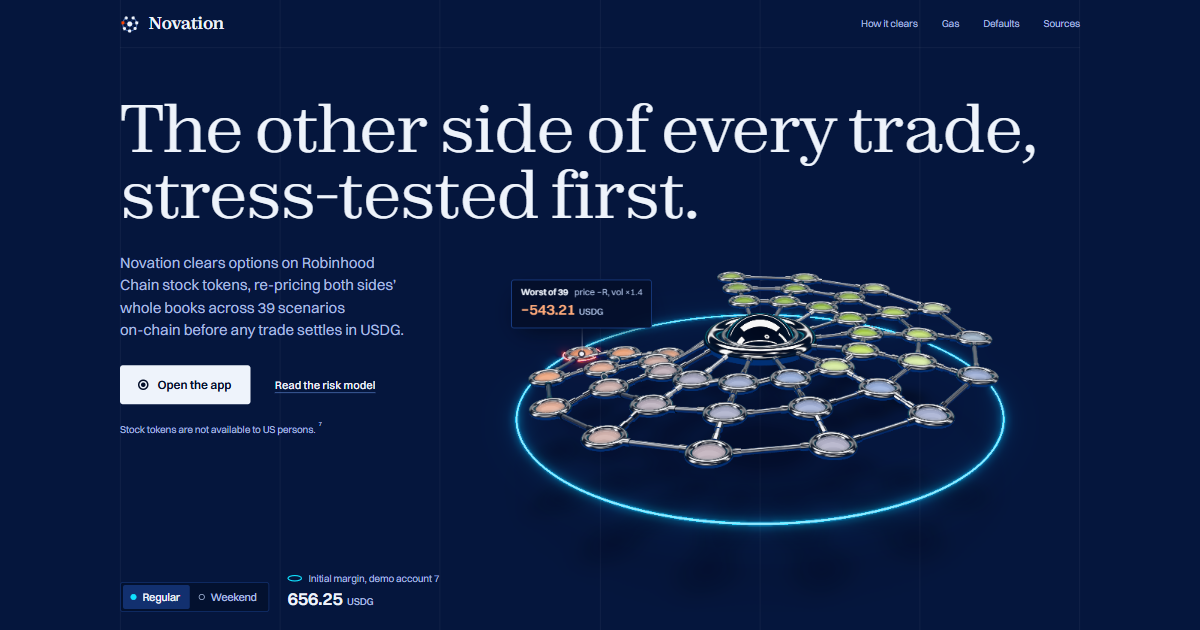
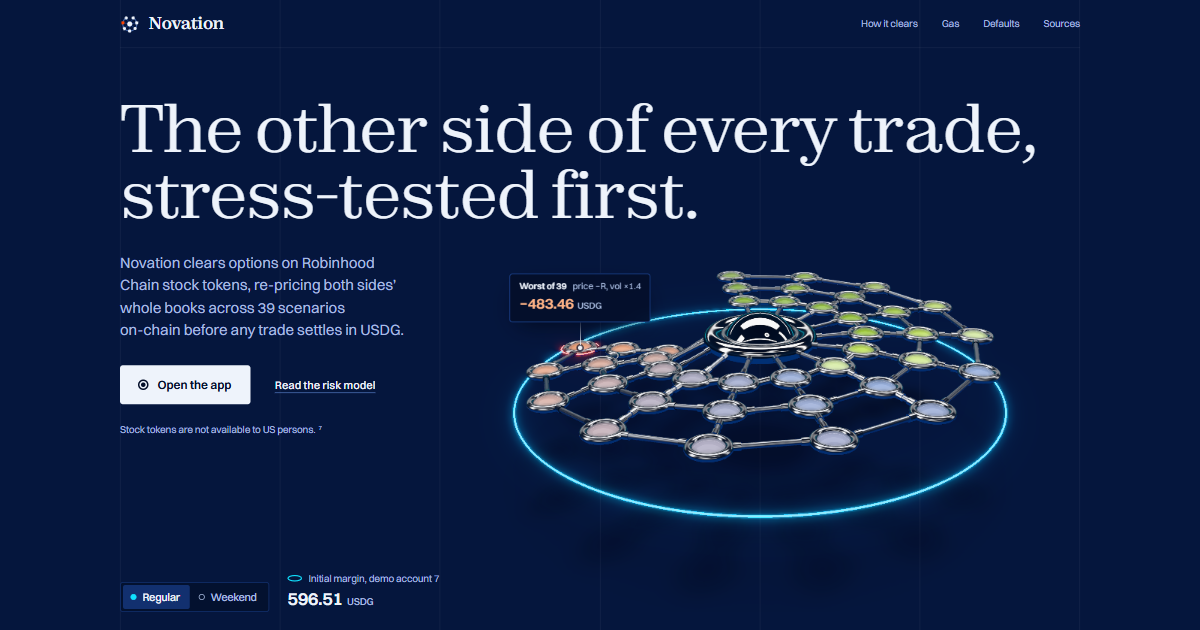
Align landing figures with demo fixtures

Changed region(s): [[0.4008, 0.4222, 0.8633, 0.8444], [0.8017, 0.6937, 0.8325, 0.754], [0.2467, 0.9349, 0.3083, 0.9651]]

diff --git a/app/src/components/landing/data.ts b/app/src/components/landing/data.ts
@@ -1,4 +1,3 @@
-import account7 from '@/fixtures/account7.json';
 import chains from '@/fixtures/chains.json';
 import { MockClient } from '@/lib/client/mock';
 import type { GasRow, NovationClient, ProtocolStats, ScenarioGrid } from '@/lib/client/types';
@@ -21,6 +20,19 @@ export interface DiagramTrade {
   seller: DiagramSide;
 }
 
+/**
+ * The demo agent and its refused ticket, read the way /app/agents and /app/risk read them: the grant's
+ * budget and current use, and the refusal's worst case after the trade (the account's lossIM).
+ */
+export interface LandingAgent {
+  label: string;
+  budget: number;
+  imNow: number;
+  worstAfter: number;
+  /** What the agent tried, in words: "sell 60 NVDA 200 calls". */
+  ticket: string;
+}
+
 export interface LandingData {
   asOf: number;
   demo: boolean;
@@ -29,6 +41,7 @@ export interface LandingData {
   gas: GasRow[];
   protocol: ProtocolStats;
   trade: DiagramTrade;
+  agent: LandingAgent;
 }
 
 const BUYER = 7;
@@ -50,7 +63,7 @@ export async function landingData(): Promise<LandingData> {
   if (!series) throw new Error(`series ${SERIES_ID} missing from fixtures`);
   const premium = series.ask * QTY;
 
-  const [asOf, regular, weekend, gas, protocol, buyer, seller, buyerGrid, sellerGrid, buyQuote, sellQuote] = await Promise.all([
+  const [asOf, regular, weekend, gas, protocol, buyer, seller, buyerGrid, sellerGrid, buyQuote, sellQuote, grants, feed] = await Promise.all([
     c.asOf(),
     c.scenarioGrid(BUYER, 'REGULAR'),
     c.scenarioGrid(BUYER, 'WEEKEND'),
@@ -62,13 +75,21 @@ export async function landingData(): Promise<LandingData> {
     c.scenarioGrid(SELLER),
     c.whatIf(BUYER, SERIES_ID, QTY, premium),
     c.whatIf(SELLER, SERIES_ID, -QTY, premium),
+    c.agents(BUYER),
+    c.refusalsFeed(),
   ]);
+
+  const grant = grants.find((g) => g.lastRefusal?.code === 'AgentRiskBudgetExceeded');
+  const refused = feed.find((r) => r.code === 'AgentRiskBudgetExceeded' && r.account === BUYER && r.agent === grant?.agent);
+  const worstAfter = refused?.numbers?.worstLoss;
+  if (!grant || !refused?.detail || worstAfter === undefined) throw new Error('the over-budget agent refusal is missing from the demo data');
+  const action = refused.detail.split(' through ')[0]!;
 
   return {
     asOf,
     demo: c instanceof MockClient,
     grids: { REGULAR: regular, WEEKEND: weekend },
-    ims: { REGULAR: account7.summary.im_regular, WEEKEND: account7.summary.im_weekend },
+    ims: { REGULAR: regular.im, WEEKEND: weekend.im },
     gas,
     protocol,
     trade: {
@@ -91,6 +112,13 @@ export async function landingData(): Promise<LandingData> {
         imAfter: sellQuote.after.im,
         equity: sellQuote.after.equity,
       },
+    },
+    agent: {
+      label: grant.label,
+      budget: grant.maxWorstLoss,
+      imNow: grant.used,
+      worstAfter,
+      ticket: action.charAt(0).toLowerCase() + action.slice(1),
     },
   };
 }

diff --git a/app/tests/unit/landing-data.test.ts b/app/tests/unit/landing-data.test.ts
@@ -1,5 +1,6 @@
 import { describe, expect, it } from 'vitest';
 import { landingData } from '@/components/landing/data';
+import { MockClient } from '@/lib/client/mock';
 import { SOURCES, sourceNumber } from '@/components/landing/sources';
 
 describe('landing data', () => {
@@ -8,22 +9,48 @@ describe('landing data', () => {
     const { buyer, seller, series, qty, premium } = d.trade;
     expect(series).toBe('NVDA 225C');
     expect(qty).toBe(1);
-    expect(premium).toBeCloseTo(6.579482, 6);
+    expect(premium).toBeCloseTo(4.86094, 6);
     for (const side of [buyer, seller]) {
       expect(side.cells).toHaveLength(39);
       expect(side.imAfter).toBeLessThanOrEqual(side.equity);
     }
     // the trade adds margin to the buyer's book, as the trade view shows
-    expect(buyer.imBefore).toBeCloseTo(656.25, 2);
-    expect(buyer.imAfter).toBeCloseTo(661.61, 2);
+    expect(buyer.imBefore).toBeCloseTo(596.51, 2);
+    expect(buyer.imAfter).toBeCloseTo(600.93, 2);
   });
 
   it('the hero crown widens from regular to weekend on the same book', async () => {
     const d = await landingData();
-    expect(d.ims.REGULAR).toBeCloseTo(656.25, 2);
-    expect(d.ims.WEEKEND).toBeCloseTo(1350.99, 2);
+    expect(d.ims.REGULAR).toBeCloseTo(596.51, 2);
+    expect(d.ims.WEEKEND).toBeCloseTo(1373.29, 2);
     expect(d.grids.WEEKEND.session).toBe('WEEKEND');
     expect(d.gas.find((r) => r.positions === 256)?.solidityOptimized).toBe(23_269_339);
+  });
+
+  it('the landing figures are the ones the app pages show', async () => {
+    const d = await landingData();
+    const c = new MockClient();
+    // Portfolio and the trade view read account 7's IM per session from the same grids
+    expect(d.ims.REGULAR).toBe((await c.scenarioGrid(7, 'REGULAR')).im);
+    expect(d.ims.WEEKEND).toBe((await c.scenarioGrid(7, 'WEEKEND')).im);
+    expect((await c.account(7)).state.im).toBeCloseTo(d.ims.REGULAR, 6);
+    // Agents: hedge-bot's meter (used / budget) and its last refusal; Risk: the refusal feed
+    const bot = (await c.agents(7)).find((g) => g.label === 'hedge-bot')!;
+    const feed = (await c.refusalsFeed()).find((r) => r.code === 'AgentRiskBudgetExceeded')!;
+    expect(d.agent).toEqual({
+      label: 'hedge-bot',
+      budget: bot.maxWorstLoss,
+      imNow: bot.used,
+      worstAfter: feed.numbers!.worstLoss,
+      ticket: 'sell 60 NVDA 200 calls',
+    });
+    expect(bot.lastRefusal?.numbers?.worstLoss).toBe(d.agent.worstAfter);
+    expect(d.agent.worstAfter).toBeCloseTo(1762.72, 2);
+    expect(d.agent.budget).toBe(1500);
+    expect(d.agent.imNow).toBeCloseTo(596.51, 2);
+    // the protocol strip
+    expect(d.protocol).toEqual(await c.protocol());
+    expect(d.protocol.openInterestUsd).toBeCloseTo(1_440_900.91, 2);
   });
 
   it('footnotes are numbered in list order and each has a public link or is the demo note', () => {

diff --git a/app/src/components/landing/breaks.tsx b/app/src/components/landing/breaks.tsx
@@ -3,14 +3,15 @@ import { WaterfallDiagram } from '@/components/charts/WaterfallDiagram';
 import { Lamp } from '@/components/ui/lamp';
 import { cn } from '@/lib/cn';
 import { fmtNumber } from '@/lib/format';
+import type { LandingAgent } from './data';
 import { Fig, Ref, SectionHead, TEXT_LINK, WRAP } from './parts';
 import { PROOF_TX, txUrl } from './site';
 
 export interface BreaksProps {
   /** Demo account 7's initial margin in a regular session and over a weekend. */
   ims: { REGULAR: number; WEEKEND: number };
-  /** The refused agent ticket: the account's initial margin after it, against the agent's budget. */
-  agent: { label: string; imAfter: number; budget: number };
+  /** The refused agent ticket: its worst case after the trade (the account's initial margin), against the agent's budget. */
+  agent: Pick<LandingAgent, 'label' | 'ticket' | 'worstAfter' | 'budget'>;
 }
 
 interface Refusal {
@@ -47,9 +48,9 @@ export function Breaks({ ims, agent }: BreaksProps) {
       name: 'Over-budget agent',
       body: (
         <>
-          The {agent.label} agent tried to sell 60 NVDA 200 calls for account 7. After the trade the account would need{' '}
-          <Fig id="demo">{fmtNumber(agent.imAfter)}</Fig> USDG of initial margin, past the agent’s <Fig id="demo">{fmtNumber(agent.budget)}</Fig> budget.
-          It reverted with AgentRiskBudgetExceeded.
+          In the demo, the {agent.label} agent tries to {agent.ticket} for account 7. Its worst case after the trade, the account’s initial
+          margin, comes to <Fig id="demo">{fmtNumber(agent.worstAfter)}</Fig> USDG, past the agent’s <Fig id="demo">{fmtNumber(agent.budget)}</Fig>{' '}
+          USDG budget, so the trade reverts with AgentRiskBudgetExceeded.
           <Ref id="demo" />
         </>
       ),

diff --git a/app/tests/e2e/landing.spec.ts b/app/tests/e2e/landing.spec.ts
@@ -80,6 +80,25 @@ test.describe('landing', () => {
     expect(errors).toEqual([]);
   });
 
+  test('demo figures match the app pages: account 7 margin, the agent refusal, the protocol strip', async ({ page }) => {
+    await page.setViewportSize({ width: 1440, height: 900 });
+    await page.goto('/');
+    // the hero crown: the same 596.51 -> 1,373.29 that /app/portfolio shows
+    const crown = page.locator('figure[data-variant="hero"]');
+    await expect(crown.getByRole('table')).toContainText('Regular session. Initial margin 596.51 USDG');
+    const breaks = page.locator('section[aria-labelledby="when-it-breaks"]');
+    await expect(breaks).toContainText('596.51 USDG of initial margin on a weekday and 1,373.29 over the weekend');
+    // the over-budget agent: the worst case after the ticket against the budget, as /app/risk and /app/agents show it
+    await expect(breaks).toContainText('the hedge-bot agent tries to sell 60 NVDA 200 calls for account 7');
+    await expect(breaks).toContainText('comes to 1,762.72 USDG, past the agent’s 1,500.00 USDG budget');
+    const ways = page.locator('section[aria-labelledby="ways-in"]');
+    await expect(ways).toContainText('works under a 1,500 USDG budget, and account 7 needs 596.51 today');
+    const strip = page.locator('section[aria-labelledby="protocol"]');
+    await expect(strip).toContainText('$1,440,901');
+    await expect(strip).toContainText('$1,344,232');
+    await expect(strip).toContainText('$5,662');
+  });
+
   test('the primary CTA is reachable by keyboard and leads to the app', async ({ page }) => {
     await page.setViewportSize({ width: 1440, height: 900 });
     await page.goto('/');

diff --git a/app/src/app/(landing)/page.tsx b/app/src/app/(landing)/page.tsx
@@ -1,5 +1,3 @@
-import agents from '@/fixtures/agents.json';
-import whatifs from '@/fixtures/whatifs.json';
 import { Breaks } from '@/components/landing/breaks';
 import { Checked } from '@/components/landing/checked';
 import { Footer, ProtocolStrip, Sources } from '@/components/landing/closing';
@@ -10,10 +8,6 @@ import { HowItWorks } from '@/components/landing/how-it-works';
 import { Problem } from '@/components/landing/problem';
 import { WaysIn } from '@/components/landing/ways-in';
 
-const grant = agents['7'][0]!;
-/** The hedge-bot's refused ticket: the clearinghouse compares the account's initial margin after the trade with the agent's budget. */
-const overBudget = whatifs.find((w) => w.id === 7 && w.quote.refusal?.code === 'AgentRiskBudgetExceeded')!;
-
 export default async function Landing() {
   const d = await landingData();
   return (
@@ -23,8 +17,8 @@ export default async function Landing() {
         <Problem />
         <HowItWorks trade={d.trade} />
         <Gas rows={d.gas} />
-        <WaysIn agent={{ label: grant.label, budget: grant.maxWorstLoss, im: d.ims.REGULAR }} />
-        <Breaks ims={d.ims} agent={{ label: grant.label, imAfter: overBudget.quote.after.im, budget: grant.maxWorstLoss }} />
+        <WaysIn agent={{ label: d.agent.label, budget: d.agent.budget, im: d.agent.imNow }} />
+        <Breaks ims={d.ims} agent={d.agent} />
         <Checked />
         <ProtocolStrip stats={d.protocol} asOf={d.asOf} demo={d.demo} />
         <Sources />

diff --git a/app/src/app/system/page.tsx b/app/src/app/system/page.tsx
@@ -16,6 +16,7 @@ import { Tooltip } from '@/components/ui/tooltip';
 import { cn } from '@/lib/cn';
 import { fmtNumber, fmtSigned, fmtUsd } from '@/lib/format';
 import { worstCell } from '@/lib/scenario';
+import { explorerTx } from '@/lib/wallet/chains';
 import type { Refusal, Session } from '@/lib/client/types';
 import account7 from '@/fixtures/account7.json';
 import agents from '@/fixtures/agents.json';
@@ -777,7 +778,7 @@ export default function SystemPage() {
                   limit: { label: 'Budget', value: budgetRefusal!.numbers!.budget! },
                 }}
                 hint={`Keep the trade's worst case at or under ${fmtNumber(budgetRefusal!.numbers!.budget!)} USDG, or ask the owner to raise the budget.`}
-                proof={{ href: `https://sepolia.arbiscan.io/tx/${budgetRefusal!.txHash}`, label: 'View transaction' }}
+                proof={{ href: explorerTx(budgetRefusal!.txHash!), label: 'View transaction (demo hash, not on chain)' }}
               />
               <RefusalCard
                 code={marginRefusal!.code}

diff --git a/app/tests/e2e/trade.spec.ts b/app/tests/e2e/trade.spec.ts
@@ -132,3 +132,12 @@ test('/app redirects to trade and every section link resolves', async ({ page })
     await expect(page.getByRole('heading', { level: 1, name })).toBeVisible();
   }
 });
+
+test('every /app page says it runs on demo data', async ({ page }) => {
+  for (const path of ['trade', 'earn', 'portfolio', 'risk', 'agents']) {
+    await page.goto(`/app/${path}`);
+    const note = page.getByRole('note').filter({ hasText: 'Demo data' });
+    await expect(note).toContainText('Demo data: computed with the Novation kernel reference.');
+    await expect(note).toContainText('Nothing is sent to a chain.');
+  }
+});

diff --git a/app/src/components/earn/vault-dialogs.tsx b/app/src/components/earn/vault-dialogs.tsx
@@ -61,7 +61,7 @@ export function DepositDialog({ vault, open, onOpenChange, asOf, demo, balance }
         if (!o) setTouched(false);
       }}
       title={`Deposit into ${vault.symbol}`}
-      description={`Priced at the vault's live NAV: ${fmtNumber(vault.navPerShare, 6)} ${unit} per share, from the kernel's marks right now.`}
+      description={`Priced at the vault's live NAV: ${fmtNumber(vault.navPerShare, 6)} ${unit} per share, from the kernel's marks ${demo ? 'at the demo snapshot' : 'right now'}.`}
       footer={
         <>
           <Button variant="ghost" onClick={() => onOpenChange(false)}>

diff --git a/app/src/components/landing/glyphs.tsx b/app/src/components/landing/glyphs.tsx
@@ -80,7 +80,7 @@ export function RfqGlyph({ className }: { className?: string }) {
   );
 }
 
-/** Agents: a node inside its risk budget, drawn as a ring with the share in use lit (656.25 of 1,500 USDG). */
+/** Agents: a node inside its risk budget, drawn as a ring with the share in use lit (the account's initial margin over the budget). */
 export function AgentGlyph({ used, className }: { used: number; className?: string }) {
   const c = 32;
   const r = 22;
